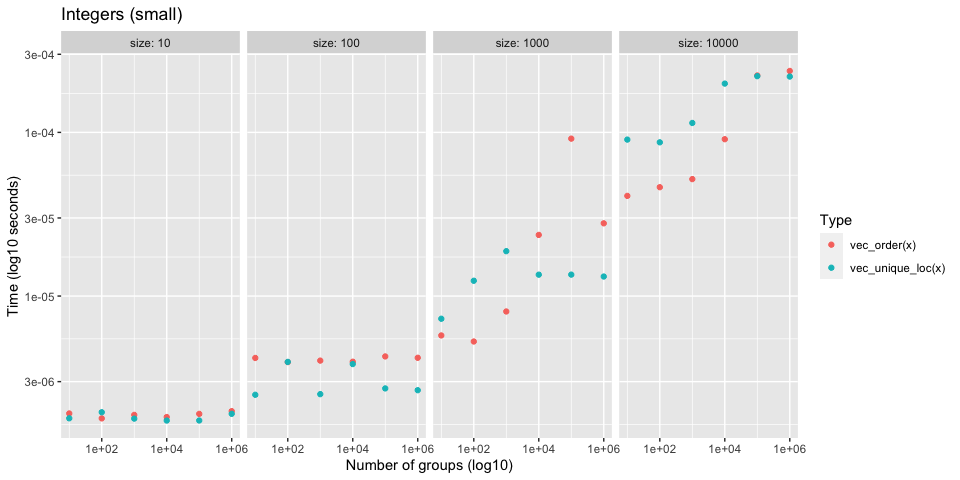
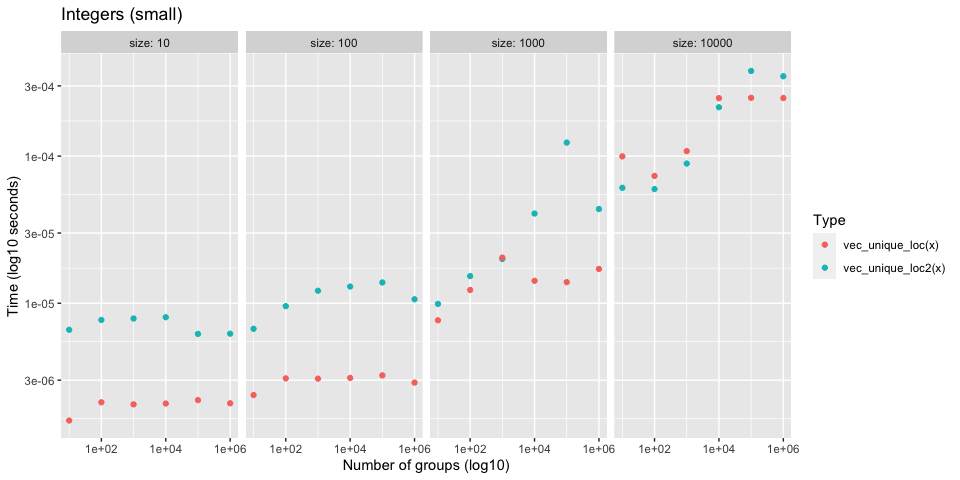
Update sorting vs hashing benchmark document

diff --git a/bench/sorting-vs-hashing.md b/bench/sorting-vs-hashing.md
@@ -1,9 +1,13 @@
 Sorting vs Hashing
 ================
 
-Investigates performance of `vec_order()` vs current implementation of
-`vec_unique()`, which is based on hashing and a dictionary. It might be
-worth switching to use the sort based approach of `vec_order()`.
+Investigates performance of hash based (`vec_unique_loc()`) vs sort
+based (`vec_unique_loc2()`) approaches to ordering.
+
+Remember that, in addition to any potential speed ups, the sort based
+approach also works for large vectors where the dictionary approach
+currently fails due to an overflow
+(<https://github.com/r-lib/vctrs/issues/1133>).
 
 ## Setup
 
@@ -13,6 +17,8 @@ library(rlang)
 library(stringr)
 library(ggplot2)
 library(dplyr)
+
+vec_unique_loc2 <- vctrs:::vec_unique_loc2
 ```
 
 ``` r
@@ -69,20 +75,13 @@ It is worth comparing to `vec_unique_loc()`, which is the most bare
 bones of the uniqueness functions, to test whether or not
 uniqueness-by-sorting can be faster than uniqueness-by-hashing.
 
-In a branch, I hacked together an implementation of `vec_unique_loc()`
-based on `vec_order()`. It takes approximately the same amount of time
-as `vec_order()` itself, so I will just use `vec_order()` as a proxy for
-the sorting approach.
-
 ## Integers
 
 ### Test 1
 
-  - Integers
-  - Varying total size (small)
-  - Varying group size
-
-<!-- end list -->
+-   Integers
+-   Varying total size (small)
+-   Varying group size
 
 ``` r
 set.seed(123)
@@ -96,47 +95,25 @@ df <- bench::press(
   {
     x <- sample(n_groups, size, replace = TRUE)
     bench::mark(
-      vec_order(x), vec_unique_loc(x), 
-      iterations = 100, check = FALSE
+      vec_unique_loc2(x), 
+      vec_unique_loc(x), 
+      iterations = 100
     )
   }
 )
 ```
 
-Performance is generally the same for small sizes
+For very small sizes, `vec_unique_loc()` is a little faster. Probably
+due to the allocations required to set up `vec_unique_loc2()`. This
+difference disappears relatively fast.
 
 ![](sorting-vs-hashing_files/figure-gfm/unnamed-chunk-7-1.png)<!-- -->
 
-However, `size = 10000` seems to already show `vec_order()` being
-faster.
-
-``` r
-df[-1] %>%
-  filter(size == 10000)
-#>  # A tibble: 12 x 7
-#>      size n_groups      min   median `itr/sec` mem_alloc `gc/sec`
-#>     <dbl>    <dbl> <bch:tm> <bch:tm>     <dbl> <bch:byt>    <dbl>
-#>   1 10000       10   38.3µs   40.9µs    21938.    39.1KB      0  
-#>   2 10000       10     54µs   90.4µs    10903.   104.2KB      0  
-#>   3 10000      100   35.1µs   46.2µs    21748.    39.1KB      0  
-#>   4 10000      100   46.8µs     87µs    12224.   104.7KB      0  
-#>   5 10000     1000   50.9µs   51.8µs    18652.    39.1KB      0  
-#>   6 10000     1000  101.1µs  114.2µs     8557.   114.3KB      0  
-#>   7 10000    10000   86.8µs   90.8µs    10622.    39.1KB      0  
-#>   8 10000    10000    161µs  198.7µs     5009.     191KB      0  
-#>   9 10000   100000    194µs  222.7µs     4414.    39.1KB      0  
-#>  10 10000   100000    152µs  220.6µs     4535.   267.7KB     45.8
-#>  11 10000  1000000  186.6µs  237.3µs     4378.   174.3KB      0  
-#>  12 10000  1000000  186.6µs  219.3µs     4410.   269.4KB     44.5
-```
-
 ### Test 2
 
-  - Integers
-  - Varying total size (large)
-  - Varying number of groups
-
-<!-- end list -->
+-   Integers
+-   Varying total size (large)
+-   Varying number of groups
 
 ``` r
 set.seed(123)
@@ -150,22 +127,23 @@ df <- bench::press(
   {
     x <- sample(n_groups, size, replace = TRUE)
     bench::mark(
-      vec_order(x), vec_unique_loc(x), 
-      iterations = 20, check = FALSE
+      vec_unique_loc2(x), 
+      vec_unique_loc(x), 
+      iterations = 20
     )
   }
 )
 ```
 
-As the total size increases, `vec_order()` starts to do better.
+As the total size increases, `vec_unique_loc2()` starts to do better.
 
-![](sorting-vs-hashing_files/figure-gfm/unnamed-chunk-10-1.png)<!-- -->
+![](sorting-vs-hashing_files/figure-gfm/unnamed-chunk-9-1.png)<!-- -->
 
 ### Test 3
 
-This benchmark shows how much better `vec_order()` scales for large size
-and large number of groups. For integers it is always faster, and scales
-extremely well.
+This benchmark shows how much better `vec_unique_loc2()` scales for
+large size and large number of groups. For integers it is always faster,
+and scales extremely well.
 
 ``` r
 set.seed(123)
@@ -179,24 +157,23 @@ df <- bench::press(
   {
     x <- sample(n_groups, size, replace = TRUE)
     bench::mark(
-      vec_order(x), vec_unique_loc(x), 
-      iterations = 20, check = FALSE
+      vec_unique_loc2(x), 
+      vec_unique_loc(x), 
+      iterations = 20
     )
   }
 )
 ```
 
-![](sorting-vs-hashing_files/figure-gfm/unnamed-chunk-12-1.png)<!-- -->
+![](sorting-vs-hashing_files/figure-gfm/unnamed-chunk-11-1.png)<!-- -->
 
 ## Doubles
 
 ### Test 1
 
-  - Doubles
-  - Varying total size (small)
-  - Varying group size
-
-<!-- end list -->
+-   Doubles
+-   Varying total size (small)
+-   Varying group size
 
 ``` r
 set.seed(123)
@@ -210,24 +187,26 @@ df <- bench::press(
   {
     x <- sample(n_groups, size, replace = TRUE) + 0
     bench::mark(
-      vec_order(x), vec_unique_loc(x), 
-      iterations = 100, check = FALSE
+      vec_unique_loc2(x), 
+      vec_unique_loc(x), 
+      iterations = 100,
     )
   }
 )
 ```
 
-`vec_order()` is generally a bit slower for these smaller sizes, but it
-scales much better with large sizes and larger number of groups. See the
-next test.
+`vec_unique_loc2()` is generally a bit slower for these smaller sizes,
+but it scales much better with large sizes and larger number of groups.
+See the next test.
 
-![](sorting-vs-hashing_files/figure-gfm/unnamed-chunk-14-1.png)<!-- -->
+![](sorting-vs-hashing_files/figure-gfm/unnamed-chunk-13-1.png)<!-- -->
 
 ### Test 2
 
-This benchmark shows how much better `vec_order()` scales for large size
-and large number of groups. For doubles it is slower up front, but
-scales much better.
+This benchmark shows how much better `vec_unique_loc2()` scales for
+large size and large number of groups. For doubles it is slower up front
+(large unavoidable allocations when there are few groups), but scales
+much better.
 
 ``` r
 set.seed(123)
@@ -241,39 +220,23 @@ df <- bench::press(
   {
     x <- sample(n_groups, size, replace = TRUE) + 0
     bench::mark(
-      vec_order(x), vec_unique_loc(x), 
-      iterations = 20, check = FALSE
+      vec_unique_loc2(x), 
+      vec_unique_loc(x), 
+      iterations = 20, 
     )
   }
 )
 ```
 
-![](sorting-vs-hashing_files/figure-gfm/unnamed-chunk-16-1.png)<!-- -->
+![](sorting-vs-hashing_files/figure-gfm/unnamed-chunk-15-1.png)<!-- -->
 
 ## Characters
 
 ### Test 1
 
-Currently string ordering is much slower than `vec_unique_loc()`
-(especially when most strings are unique) due to all of the allocations
-that are required + the fact that it does a radix ordering of unique
-strings and then an integer radix ordering after that.
-
-I am confident that the C level part of `vec_order()` could gain a
-`sort_character = false` option that would do a much faster counting
-sort in order-of-first-appearance that utilizes the truelengths in a
-different way. It wouldn’t sort strings at all, so should be very fast.
-This is what `cgroup()` does in `base::order()`, which is not currently
-implemented in `vec_order()` because I didn’t have a use for it until
-now.
-<https://github.com/wch/r-source/blob/8d7ac4699fba640d030703fa010b66bf26054cbd/src/main/radixsort.c#L1051>
-
 Very large set of strings with 10 groups
 
-  - Don’t notice much of a difference between the two here, because
-    there aren’t many unique strings.
-
-<!-- end list -->
+Don’t notice much of a difference between the two here.
 
 ``` r
 set.seed(123)
@@ -284,20 +247,23 @@ n_groups <- 10
 dict <- new_dictionary(n_groups, min_length = 5, max_length = 20)
 x <- sample(dict, size, TRUE)
 
-bench::mark(vec_order(x), vec_unique_loc(x), iterations = 10, check = FALSE)
+bench::mark(
+  vec_unique_loc2(x),
+  vec_unique_loc(x), 
+  iterations = 10
+)
 #>  # A tibble: 2 x 6
-#>    expression             min   median `itr/sec` mem_alloc `gc/sec`
-#>    <bch:expr>        <bch:tm> <bch:tm>     <dbl> <bch:byt>    <dbl>
-#>  1 vec_order(x)        95.9ms    110ms      9.13     124MB        0
-#>  2 vec_unique_loc(x)  117.5ms    125ms      8.03     102MB        0
+#>    expression              min   median `itr/sec` mem_alloc `gc/sec`
+#>    <bch:expr>         <bch:tm> <bch:tm>     <dbl> <bch:byt>    <dbl>
+#>  1 vec_unique_loc2(x)   85.2ms   93.2ms     10.6     38.6MB        0
+#>  2 vec_unique_loc(x)    92.5ms  109.1ms      9.25   102.1MB        0
 ```
 
 Very large set of completely random strings
 
-  - Extremely large difference, because `vec_order()` is doing way too
-    much work to actually sort the strings.
-
-<!-- end list -->
+Ordering character vectors by first appearance (i.e. using
+`vec_order_info(chr_ordered = FALSE)`) in `vec_unique_loc2()` allows it
+to remain competitive with `vec_unique_loc()`.
 
 ``` r
 set.seed(123)
@@ -306,12 +272,16 @@ n_groups <- 1e7
 
 x <- new_dictionary(n_groups, min_length = 5, max_length = 20)
 
-bench::mark(vec_order(x), vec_unique_loc(x), iterations = 10, check = FALSE)
+bench::mark(
+  vec_unique_loc2(x), 
+  vec_unique_loc(x), 
+  iterations = 10
+)
 #>  # A tibble: 2 x 6
-#>    expression             min   median `itr/sec` mem_alloc `gc/sec`
-#>    <bch:expr>        <bch:tm> <bch:tm>     <dbl> <bch:byt>    <dbl>
-#>  1 vec_order(x)          4.5s    4.53s     0.221     856MB    0.516
-#>  2 vec_unique_loc(x)    1.18s     1.2s     0.831     268MB    0.208
+#>    expression              min   median `itr/sec` mem_alloc `gc/sec`
+#>    <bch:expr>         <bch:tm> <bch:tm>     <dbl> <bch:byt>    <dbl>
+#>  1 vec_unique_loc2(x)    560ms    564ms      1.74     317MB    0.746
+#>  2 vec_unique_loc(x)     677ms    686ms      1.46     268MB    0.626
 ```
 
 ## Multiple columns
@@ -332,23 +302,21 @@ names(cols) <- seq_along(cols)
 df <- vctrs::new_data_frame(cols, size)
 
 bench::mark(
-  vec_order(df), 
+  vec_unique_loc2(df), 
   vec_unique_loc(df), 
-  iterations = 10,
-  check = FALSE
+  iterations = 10
 )
 #>  # A tibble: 2 x 6
-#>    expression              min   median `itr/sec` mem_alloc `gc/sec`
-#>    <bch:expr>         <bch:tm> <bch:tm>     <dbl> <bch:byt>    <dbl>
-#>  1 vec_order(df)         253ms    263ms      3.77     115MB    0.419
-#>  2 vec_unique_loc(df)    304ms    320ms      3.10     102MB    0.344
+#>    expression               min   median `itr/sec` mem_alloc `gc/sec`
+#>    <bch:expr>          <bch:tm> <bch:tm>     <dbl> <bch:byt>    <dbl>
+#>  1 vec_unique_loc2(df)    245ms    254ms      3.95     115MB    0.439
+#>  2 vec_unique_loc(df)     265ms    275ms      3.64     102MB    0.405
 ```
 
 ### Test 2
 
-Same as before but with character columns. We do worse here because as
-mentioned before, we do too much work in `vec_order()` right now with
-character vectors.
+Again, pretty competitive with `vec_unique_loc()` due to ordering
+characters by first appearance.
 
 ``` r
 set.seed(123)
@@ -370,16 +338,15 @@ names(cols) <- seq_along(cols)
 df <- vctrs::new_data_frame(cols, size)
 
 bench::mark(
-  vec_order(df), 
+  vec_unique_loc2(df), 
   vec_unique_loc(df), 
-  iterations = 5,
-  check = FALSE
+  iterations = 5
 )
 #>  # A tibble: 2 x 6
-#>    expression              min   median `itr/sec` mem_alloc `gc/sec`
-#>    <bch:expr>         <bch:tm> <bch:tm>     <dbl> <bch:byt>    <dbl>
-#>  1 vec_order(df)         485ms    492ms      2.04     239MB    0.509
-#>  2 vec_unique_loc(df)    470ms    474ms      2.11     102MB    0
+#>    expression               min   median `itr/sec` mem_alloc `gc/sec`
+#>    <bch:expr>          <bch:tm> <bch:tm>     <dbl> <bch:byt>    <dbl>
+#>  1 vec_unique_loc2(df)    485ms    499ms      2.02     153MB    0.504
+#>  2 vec_unique_loc(df)     399ms    403ms      2.47     102MB    0
 ```
 
 ### Test 3
@@ -398,14 +365,13 @@ names(cols) <- seq_along(cols)
 df <- vctrs::new_data_frame(cols, size)
 
 bench::mark(
-  vec_order(df), 
+  vec_unique_loc2(df), 
   vec_unique_loc(df), 
-  iterations = 5,
-  check = FALSE
+  iterations = 5
 )
 #>  # A tibble: 2 x 6
-#>    expression              min   median `itr/sec` mem_alloc `gc/sec`
-#>    <bch:expr>         <bch:tm> <bch:tm>     <dbl> <bch:byt>    <dbl>
-#>  1 vec_order(df)         2.85s    2.85s     0.351     123MB    0.234
-#>  2 vec_unique_loc(df)    6.04s    6.08s     0.164     114MB    0
+#>    expression               min   median `itr/sec` mem_alloc `gc/sec`
+#>    <bch:expr>          <bch:tm> <bch:tm>     <dbl> <bch:byt>    <dbl>
+#>  1 vec_unique_loc2(df)    2.92s    2.94s     0.341     149MB   0.227 
+#>  2 vec_unique_loc(df)     4.68s     4.7s     0.213     114MB   0.0532
 ```
